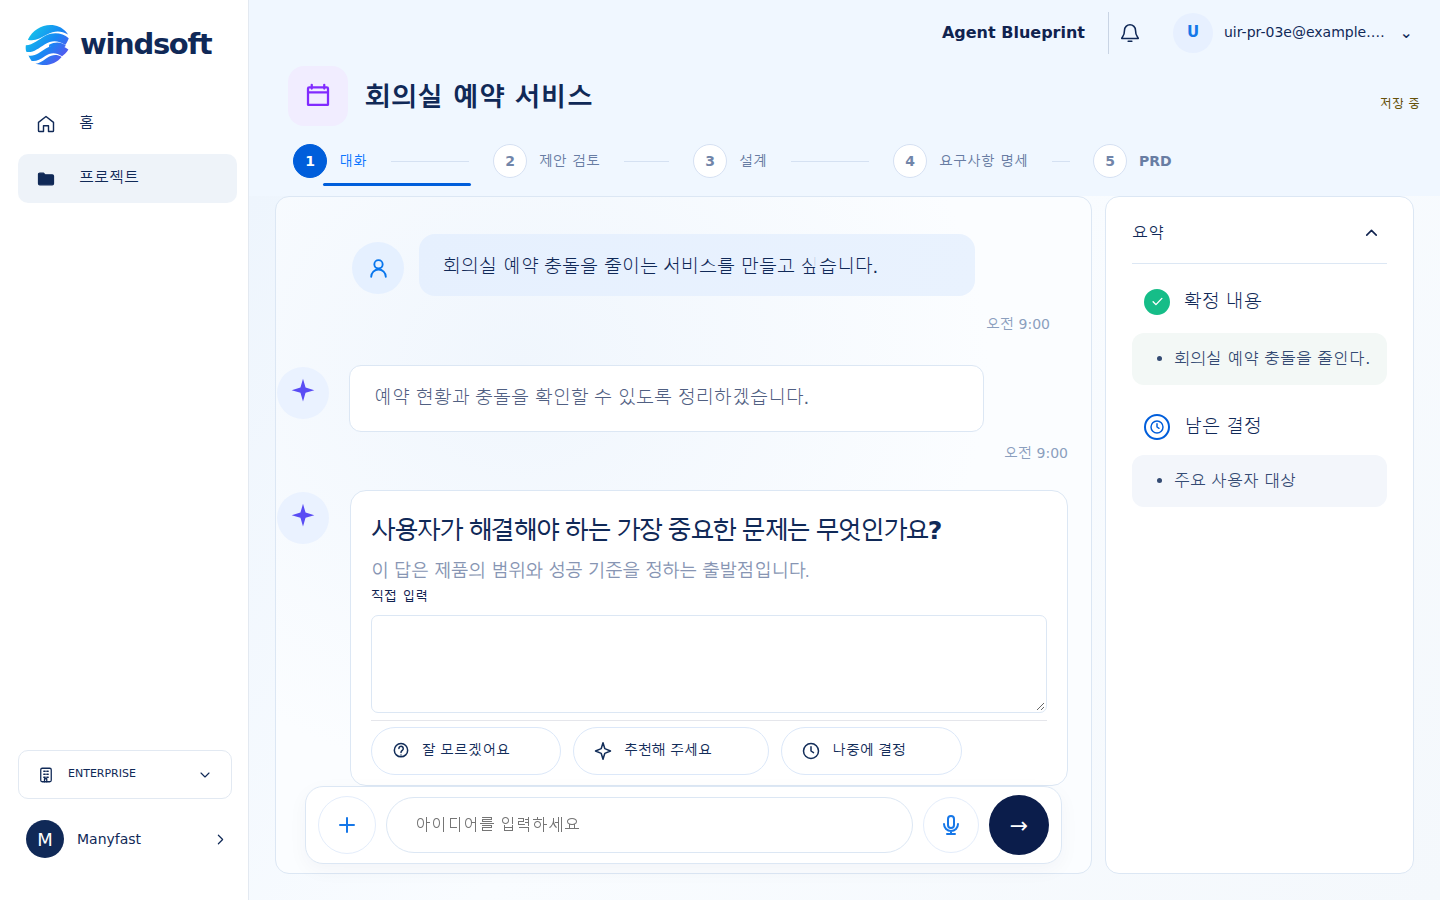
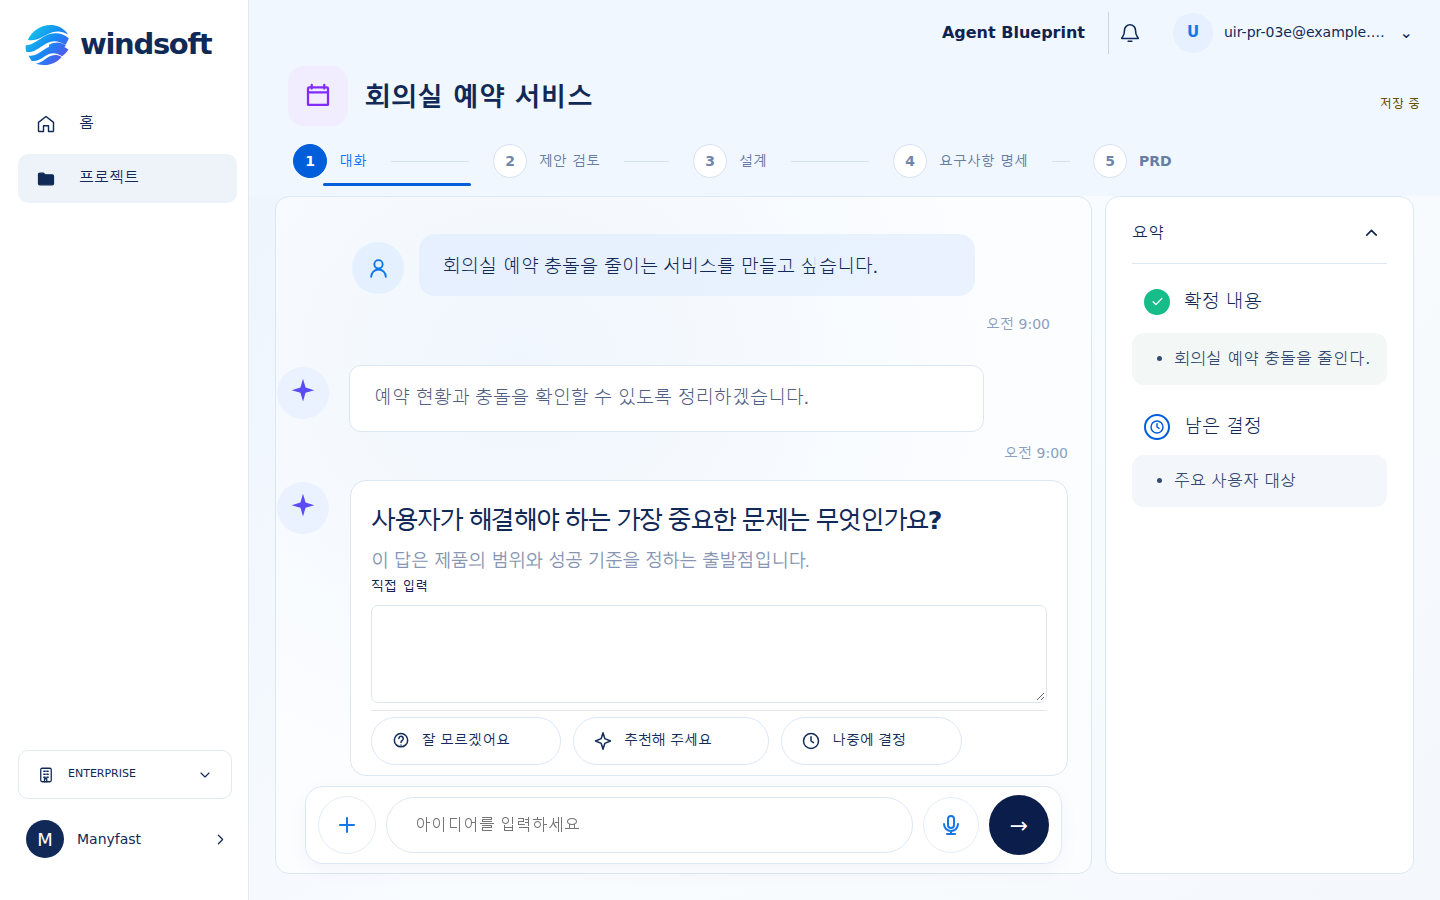
Refresh conversation spacing evidence

Changed region(s): [[0.25, 0.56, 0.6562, 0.6844], [0.25, 0.7778, 0.7188, 0.8711], [0.1875, 0.56, 0.2188, 0.5911]]

diff --git a/docs/delivery/evidence/UIR-PR-03G/README.md b/docs/delivery/evidence/UIR-PR-03G/README.md
@@ -6,16 +6,17 @@
 - Fallback states: [`docs/template/image (15).png`](../../../template/image%20(15).png), [`docs/template/image (16).png`](../../../template/image%20(16).png)
 - Route: `/blueprints/uir-pr-03e-meeting-room`
 - Fixture: deterministic UIR-PR-03E meeting-room aggregate
-- Source-render HEAD: `f8d78c2bb2440cce7c51391ec489c19b40f6ae8d`
+- Source-render HEAD: `3a4e5ac8e664d509f83b4f0de90eb5c9bb91d80a`
 - Playwright Chromium, desktop 1440×900 and mobile 390×844
 
 ## Captures and measurements
 
 - Desktop: [conversation and summary, 1440×900](conversation-summary-1440x900.png) · [geometry JSON](measurements-1440x900.json)
 - Mobile: [conversation and summary, 390×844](conversation-summary-390x844.png) · [geometry JSON](measurements-390x844.json)
+- Scroll to active question: [1440×900](scroll-1440x900.json) · [1024×768](scroll-1024x768.json) · [390×844](scroll-390x844.json)
 
-At desktop, the stage remains at `x=249, y=196, 1191×704`. The conversation card is inset 26px from its left edge and 26px from the stage bottom. The summary card also ends 26px above the stage bottom. The fixed composer remains 30px inside the conversation card on both sides and 10px above its bottom. The 26px right gutter and 25px internal conversation/summary padding are unchanged. No horizontal overflow occurred.
+At desktop, the stage remains at `x=249, y=196, 1191×704`. The conversation card is inset 26px from its left edge and 26px from the stage bottom. The summary card also ends 26px above the stage bottom. The fixed composer remains 30px inside the conversation card on both sides and 10px above its bottom. Its gap from the active question is 10.23px in the default 1440×900 state. The 26px right gutter and 25px internal conversation/summary padding are unchanged. No horizontal overflow occurred.
 
-Compared with the previous render at the same route, viewport, and fixture, the conversation card moves 26px right and ends 26px higher; its width and height each decrease 26px. The summary card height decreases 26px. The composer moves 26px right and 25px up, retaining its existing right edge and becoming aligned within the shortened conversation card. These anchor changes are intentional: the user explicitly requested visible padding outside the card borders because they were touching the page boundary. The mapped reference presents the panels closer to the stage boundary, so this is a recorded user-directed spacing exception.
+Compared with the previous render at the same route, viewport, and fixture, the conversation card moves 26px right and ends 26px higher; its width and height each decrease 26px. The summary card height decreases 26px. The composer moves 26px right and 25px up, retaining its existing right edge and becoming aligned within the shortened conversation card. The question row's desktop top gap is reduced by 10px to preserve a visible 10px separation from the composer. These anchor changes are intentional: the user explicitly requested visible padding outside the card borders because they were touching. The mapped reference presents the panels closer to the stage boundary, so this is a recorded user-directed spacing exception.
 
-At mobile, the stage retains its 10px outer inset and the conversation/summary remain stacked. No horizontal overflow was detected. The 1024×768 breakpoint was also exercised by the desktop browser test; the composer stayed within the conversation card.
+After scrolling to the active question, its bottom remains at least 43px above the composer at all measured widths: 48.23px at 1440×900, 47.89px at 1024×768, and 43.89px at 390×844. Conversation scrolling remains internal (`window.scrollY=0`). At mobile, the stage retains its 10px outer inset and the conversation/summary remain stacked. No horizontal overflow was detected.

diff --git a/docs/tasks/UIR-PR-03G/test-results.md b/docs/tasks/UIR-PR-03G/test-results.md
@@ -5,6 +5,7 @@
 - Before the CSS fix, the new desktop browser assertion reproduced the defect: the conversation card had `0px` left inset instead of `26px`; the existing mobile layout passed.
 - After the CSS fix, `npx playwright test tests/e2e/uir-pr-03e-focus-and-gutters.spec.ts --project=desktop-chromium --project=mobile-chromium --workers=1` passed **6/6**.
 - The focused browser case checks 1440×900 outer card gutters and composer bounds, 1024×768 transition overflow/composer containment, and 390×844 stacked layout and 10px inset.
+- At 1440×900, the default active-question/composer gap is 10.23px. The test scrolls the conversation to its end and verifies the question stays above the fixed composer and `window.scrollY` remains 0 at 1440×900, 1024×768, and 390×844. Scroll measurements are attached to the evidence README.
 - `npm run build` passed. Vite emitted its existing large-chunk advisory.
 - `git diff --check` passed.
 - `PUPPETEER_EXECUTABLE_PATH=/home/donghyunlee/.cache/ms-playwright/chromium_headless_shell-1243/chrome-headless-shell-linux64/chrome-headless-shell npm run docs:check:mermaid` passed: **44/44**. The default Puppeteer browser cache was incomplete, so the installed Playwright Chromium shell was selected explicitly.
@@ -15,6 +16,6 @@ At 1440×900, the Playwright fixture measured the stage at `(249,196)`, size `11
 
 At 390×844, the existing 10px layout inset and stacked summary behavior remain; horizontal overflow was false.
 
-Final source-render SHA: `f8d78c2bb2440cce7c51391ec489c19b40f6ae8d`. The Playwright rerun after this commit passed 6/6 and regenerated the desktop/mobile captures and measurements at that exact SHA. See [the UI evidence README](../../delivery/evidence/UIR-PR-03G/README.md).
+Final source-render SHA: `3a4e5ac8e664d509f83b4f0de90eb5c9bb91d80a`. The Playwright rerun after this commit passed 6/6 and regenerated the desktop/mobile captures and measurements at that exact SHA. See [the UI evidence README](../../delivery/evidence/UIR-PR-03G/README.md).
 
 The independent reviewer, QA reviewer, and required GitHub checks have not yet run for this PR unit.
